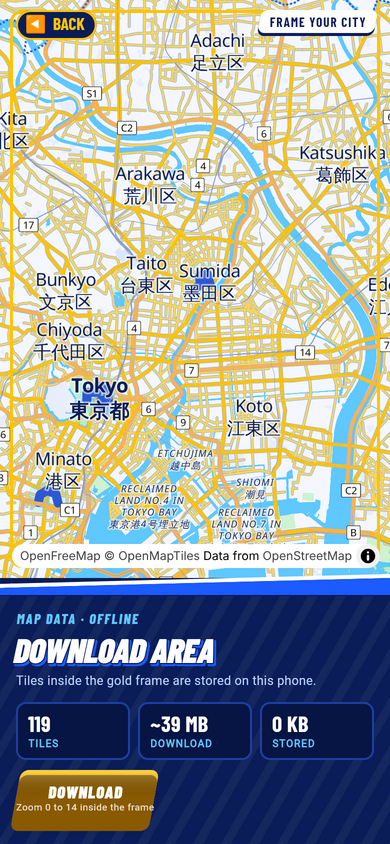
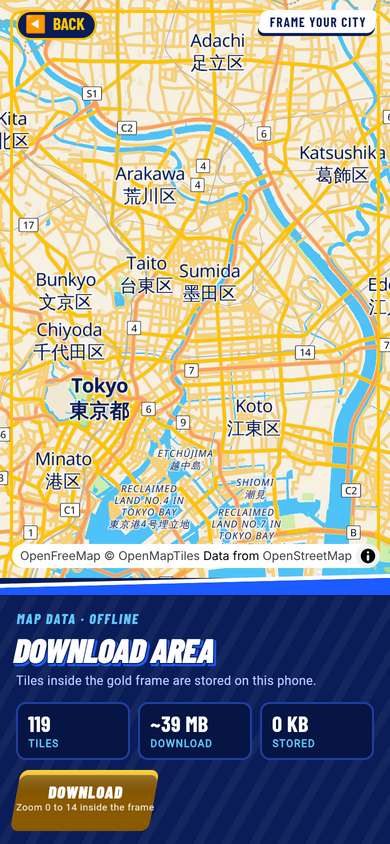
Toy-world map palette; walk lines fade out at city zoom
With hundreds of walks the map at city scale was a blue blot of lines
that hid the uncovered map. Lines now scale with zoom (full width only at
street level) and fade out completely below zoom 13.5, so an explored
district reads as coloured map on white paper. Spot markers shrink at city
zoom on both platforms.

The style moves from the blue-tinted palette to a toy world: warm paper
land, vivid parks, bright water, clay buildings, white roads with sandy
casings and gold majors. The fog's sketch of unexplored ground is almost
pure white now (contrast 0.14 instead of 0.45).

Claude-Session: https://claude.ai/code/session_01FuUQjCsx2aiKZDHCVPb3Fa

diff --git a/lib/core/widgets/maplibre_map_view.dart b/lib/core/widgets/maplibre_map_view.dart
@@ -255,14 +255,20 @@ class _MapLibreMapViewState extends State<MapLibreMapView> {
     if (controller == null || widget.markers.isEmpty) {
       return null;
     }
-    const size = 26.0;
+    // Spots shrink at city zoom so 45 of them do not bury the map.
+    final zoom = frame.camera.zoom;
+    final size = zoom >= 14
+        ? 26.0
+        : zoom >= 12
+        ? 18.0
+        : 12.0;
     return Stack(
       clipBehavior: Clip.none,
       children: [
         for (final marker in widget.markers)
           for (final offset in controller.toScreenOffsets(
             _toMl(marker.position),
-            padding: const EdgeInsets.all(size),
+            padding: EdgeInsets.all(size),
           ))
             Positioned(
               left: offset.dx - size / 2,
@@ -275,8 +281,8 @@ class _MapLibreMapViewState extends State<MapLibreMapView> {
                 child: Semantics(
                   button: marker.onTap != null,
                   label: 'Spot',
-                  child: const DecoratedBox(
-                    decoration: BoxDecoration(
+                  child: DecoratedBox(
+                    decoration: const BoxDecoration(
                       shape: BoxShape.circle,
                       color: SonicTheme.white,
                       boxShadow: [
@@ -287,7 +293,7 @@ class _MapLibreMapViewState extends State<MapLibreMapView> {
                         ),
                       ],
                     ),
-                    child: Center(child: SonicSpotIcon(size: 18)),
+                    child: Center(child: SonicSpotIcon(size: size * 0.7)),
                   ),
                 ),
               ),

diff --git a/lib/core/map/giro_map_style.dart b/lib/core/map/giro_map_style.dart
@@ -156,6 +156,10 @@ abstract final class GiroMapStyle {
     return {'type': 'FeatureCollection', 'features': features};
   }
 
+  /// Walk lines scale with zoom: at street level they are the width the
+  /// user chose, towards city zoom they thin out and fade away completely,
+  /// so an explored district reads as coloured map on white paper instead
+  /// of a blue blot of lines.
   static Map<String, dynamic> _lineLayer(
     String id, {
     required String colorKey,
@@ -167,7 +171,42 @@ abstract final class GiroMapStyle {
     'layout': {'line-cap': 'round', 'line-join': 'round'},
     'paint': {
       'line-color': ['get', colorKey],
-      'line-width': ['get', widthKey],
+      'line-width': [
+        'interpolate',
+        ['exponential', 1.5],
+        ['zoom'],
+        9,
+        [
+          '*',
+          ['get', widthKey],
+          0.12,
+        ],
+        12,
+        [
+          '*',
+          ['get', widthKey],
+          0.3,
+        ],
+        14,
+        [
+          '*',
+          ['get', widthKey],
+          0.6,
+        ],
+        16,
+        ['get', widthKey],
+      ],
+      // At city scale the uncovered colours say "explored"; the lines
+      // themselves only matter at street level.
+      'line-opacity': [
+        'interpolate',
+        ['linear'],
+        ['zoom'],
+        13.5,
+        0,
+        15,
+        1,
+      ],
     },
   };
 

diff --git a/lib/core/widgets/web_maplibre_map.dart b/lib/core/widgets/web_maplibre_map.dart
@@ -179,6 +179,7 @@ class _WebMapLibreMapState extends State<WebMapLibreMap> {
     if (map == null) {
       return;
     }
+    _scaleMarkers(map.getZoom());
     final centre = map.getCenter();
     widget.onCameraMove?.call(
       CameraPosition(
@@ -188,6 +189,18 @@ class _WebMapLibreMapState extends State<WebMapLibreMap> {
         tilt: map.getPitch(),
       ),
     );
+  }
+
+  /// Spots shrink at city zoom so dozens of them do not bury the map.
+  void _scaleMarkers(double zoom) {
+    final scale = zoom >= 14
+        ? 1.0
+        : zoom >= 12
+        ? 0.7
+        : 0.46;
+    for (final marker in _markers.values) {
+      marker.getElement().style.transform = 'scale($scale)';
+    }
   }
 
   void _syncMarkers() {
@@ -292,6 +305,7 @@ extension type _JsMarker._(JSObject _) implements JSObject {
   external _JsMarker(JSObject options);
   external _JsMarker setLngLat(JSArray<JSNumber> lngLat);
   external _JsMarker addTo(_JsMap map);
+  external web.HTMLElement getElement();
   external void remove();
 }
 

diff --git a/lib/core/map/fog_gpu.dart b/lib/core/map/fog_gpu.dart
@@ -18,8 +18,8 @@ import 'package:vector_math/vector_math_64.dart' as vm;
 class FogGpu {
   FogGpu({
     this.fogColor = const Color(0xFFFFFFFF),
-    this.fogStrength = 0.97,
-    this.sketchContrast = 0.45,
+    this.fogStrength = 0.985,
+    this.sketchContrast = 0.14,
   });
 
   final Color fogColor;

diff --git a/tool/make_sonic_style.py b/tool/make_sonic_style.py
@@ -19,20 +19,28 @@ GOLD = '#FFC400'
 PALE = '#B9D3FF'
 OUTLINE = '#2C57D6'
 WHITE = '#FFFFFF'
-LAND = '#F4F7FF'
-RESIDENTIAL = '#E8EEFC'
-PARK = '#8FE37A'
-GRASS = '#A9ECA0'
-WOOD = '#7FD98A'
-SAND = '#FFF1B8'
-BUILDING = '#C8D8FF'
-BUILDING_3D = '#B9D3FF'
-ROAD_CASING = '#9FB4E8'
-ROAD_MAJOR = '#FFD84D'
-ROAD_HIGHWAY = '#FFB347'
-RAIL = '#8A9BC9'
+
+# The explored map is a toy world: warm paper land, vivid parks, bright
+# water, clay buildings, white roads with sandy casings. Unexplored areas are
+# white (the fog), so the contrast is colourful city versus blank paper.
+LAND = '#F7F1E3'
+RESIDENTIAL = '#F1E8D4'
+PARK = '#7ED957'
+GRASS = '#A9E87B'
+WOOD = '#5CC95A'
+SAND = '#FFE9A8'
+WATER = '#4FC3F7'
+BUILDING = '#EADFC8'
+BUILDING_OUTLINE = 'rgba(176, 150, 104, 0.55)'
+BUILDING_3D = '#EADFC8'
+ROAD_CASING = '#E3CFA6'
+ROAD_MAJOR = '#FFD166'
+ROAD_HIGHWAY = '#FF9F5A'
+RAIL = '#B9B2A5'
 LABEL = NAVY
-LABEL_SECONDARY = OUTLINE
+LABEL_SECONDARY = '#4A5A8A'
+BOUNDARY = '#C9A86A'
+WATER_LABEL = '#1677C8'
 
 
 def recolour(style):
@@ -54,8 +62,8 @@ def recolour(style):
         elif t == 'fill':
             if lid.startswith('park'):
                 paint['fill-color'] = PARK
-                paint['fill-opacity'] = 0.55
-                paint['fill-outline-color'] = '#5FC86A'
+                paint['fill-opacity'] = 0.7
+                paint['fill-outline-color'] = '#56B84A'
             elif lid == 'landuse_residential':
                 paint['fill-color'] = RESIDENTIAL
             elif lid in ('landcover_wood',):
@@ -69,17 +77,17 @@ def recolour(style):
             elif lid in ('landcover_ice',):
                 paint['fill-color'] = WHITE
             elif lid in ('landcover_wetland',):
-                paint['fill-color'] = '#BFEFFF'
+                paint['fill-color'] = '#A5E3F5'
                 paint['fill-opacity'] = 0.5
             elif lid in ('landuse_cemetery', 'landuse_hospital', 'landuse_school'):
-                paint['fill-color'] = '#DCE6FF'
+                paint['fill-color'] = '#EFE4CF'
             elif lid == 'water':
-                paint['fill-color'] = SKY
+                paint['fill-color'] = WATER
             elif lid == 'building':
                 paint['fill-color'] = BUILDING
-                paint['fill-outline-color'] = 'rgba(44, 87, 214, 0.35)'
+                paint['fill-outline-color'] = BUILDING_OUTLINE
             elif lid.startswith('aeroway'):
-                paint['fill-color'] = '#DDE5F7'
+                paint['fill-color'] = '#E8E0CE'
             elif lid == 'road_area_pattern':
                 paint['fill-color'] = WHITE
                 paint.pop('fill-pattern', None)
@@ -93,9 +101,9 @@ def recolour(style):
             layer.setdefault('layout', {})['visibility'] = 'none'
         elif t == 'line':
             if 'waterway' in lid:
-                paint['line-color'] = SKY
+                paint['line-color'] = WATER
             elif lid.startswith('boundary'):
-                paint['line-color'] = OUTLINE
+                paint['line-color'] = BOUNDARY
             elif 'rail' in lid:
                 paint['line-color'] = RAIL
             elif lid.endswith('_casing'):
@@ -118,7 +126,7 @@ def recolour(style):
                 paint['text-color'] = LABEL_SECONDARY
                 paint['text-halo-color'] = WHITE
             if lid.startswith('water'):
-                paint['text-color'] = '#1677C8'
+                paint['text-color'] = WATER_LABEL
     return style
 
 

diff --git a/README.md b/README.md
@@ -28,15 +28,15 @@ explorations (Zenly × Apple and the Sonic concept itself) live in
 
 | Spots | Mark a spot | Recording |
 |---|---|---|
-| ![Spots](docs/design/screenshots/04_spots.png) | ![Mark a spot](docs/design/screenshots/10_mark_spot.png) | ![Recording](docs/design/screenshots/14_record_live.png) |
+| ![Spots](docs/design/screenshots/04_spots.png) | ![Mark a spot](docs/design/screenshots/10_mark_spot.png) | ![Recording](docs/design/screenshots/15_record_live.png) |
 
 | Options | Map download | Import everything |
 |---|---|---|
 | ![Options](docs/design/screenshots/07_options.png) | ![Map download](docs/design/screenshots/09_map_download_progress.png) | ![Import](docs/design/screenshots/06_import_all.png) |
 
-| Demo: Tokyo filled | Demo: 327 stages |
-|---|---|
-| ![Demo home](docs/design/screenshots/11_demo_tokyo_home.png) | ![Demo stages](docs/design/screenshots/12_demo_tokyo_stages.png) |
+| Demo: street zoom | Demo: city zoom | Demo: 327 stages |
+|---|---|---|
+| ![Demo home](docs/design/screenshots/11_demo_tokyo_home.png) | ![Demo city](docs/design/screenshots/12_demo_tokyo_city.png) | ![Demo stages](docs/design/screenshots/13_demo_tokyo_stages.png) |
 
 The PNGs are half-size copies of `tool/web_screenshots.mjs` output.
 
@@ -149,6 +149,13 @@ on a screen.
 
 Shaders under `shaders/` are compiled by `hook/build.dart` with the Flutter
 SDK's `impellerc` into `assets/shaderbundles/` at build time.
+
+Walk lines are only the full chosen width at street zoom (16+); they thin
+out from there and fade away below zoom 13.5, so at city scale an explored
+district reads as coloured map on white paper rather than a tangle of
+lines. The style itself (`tool/make_sonic_style.py`) is a toy-world
+palette: warm paper land, vivid parks, bright water, clay buildings, white
+roads with sandy casings.
 
 ## Web preview
 
